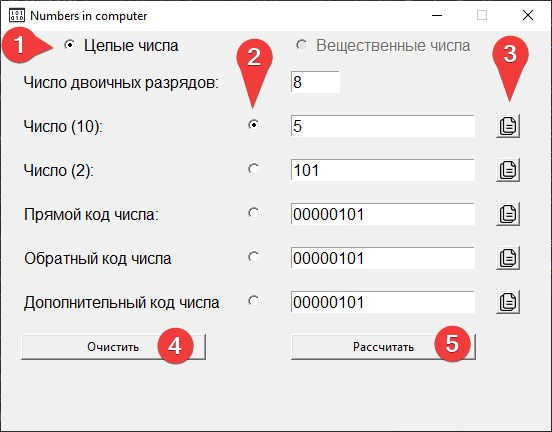
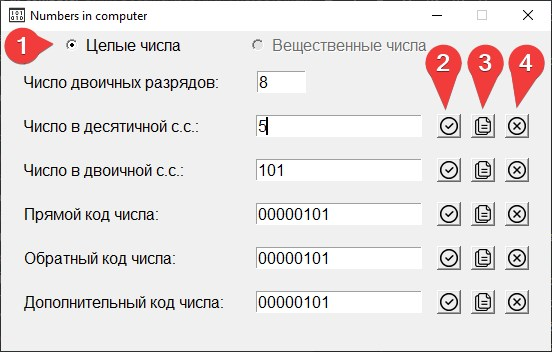
update readme
Обновлён README и добавлен скрин нового интерфейса

diff --git a/README.md b/README.md
@@ -13,11 +13,10 @@
 ### Перевод целых чисел
 ![int_interface](https://github.com/Yu-Leo/numbers-in-computer/blob/main/int_interface.jpg)
 1. Выбор типа числа, перевод которого требуется осуществить (*доступен только режим для перевода целых чисел*).
-2. Выбор поля, по которому требуется провести расчёт остальных значений.
-3. Кнопки, копирующие значение из соответствующего поля в буфер обмена.
-4. Кнопка "Очистить" - очищает все поля, кроме числа двоичных разрядов.
-5. Кнопка "Рассчитать" - выполняет расчёт по значению, которое отмечено в п.2 (*аналогично*: нажатие **[Enter]** в 
-   соответствующем отмеченному в п.2 полю).
+2. Кнопки, осуществляющие расчёт по значению соответствующего поля (*аналогично*: нажатие **[Enter]** в поле).
+3. Кнопки, копирующие значение из соответствующего поля в буфер обмена (*аналогично*: нажатие **[Ctrl]** + **[C]** в 
+   поле).
+4. Кнопки, очищающие все поля, кроме числа двоичных разрядов (*аналогично*: нажатие **[Delete]** в любом поле).
    
 ## Код
 ### Используемые модули
